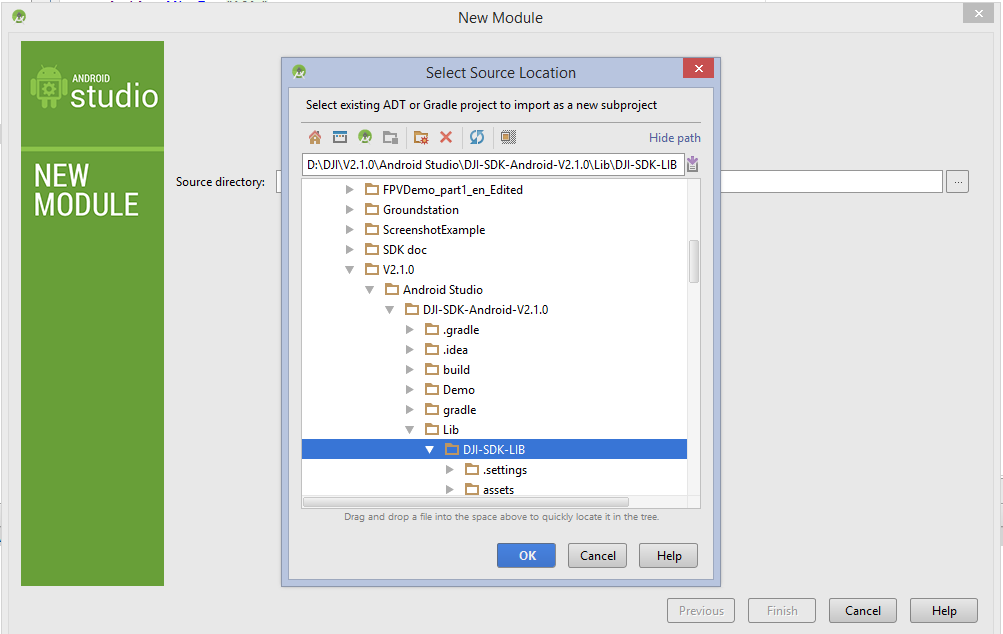
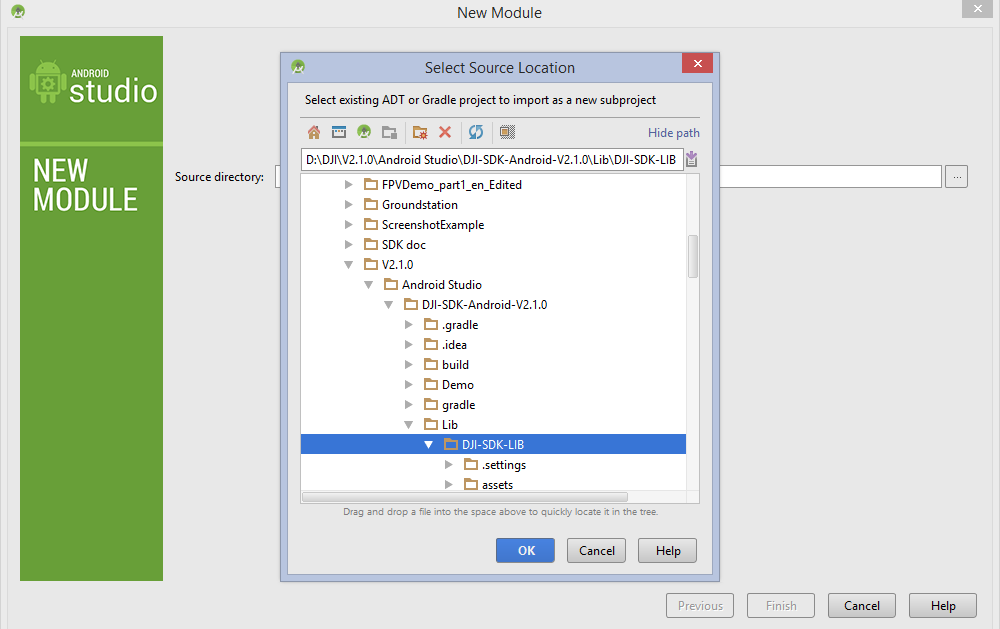
Proofread and cleaned up tutorial. Fixed image importModuleScreenshot (it was showing a bit more more than just the intended window)

diff --git a/Android-FPVDemo/en/FPVDemo/Part1/FPVDemo_Part1_en.md b/Android-FPVDemo/en/FPVDemo/Part1/FPVDemo_Part1_en.md
@@ -8,7 +8,7 @@ You can download the demo project for this tutorial from here:
 We **strongly** recommend that you have the demo project open as reference as you work through this tutorial.
 
 ### Overview
-In part 1 of this tutorial, we will cover how to set up your programming environment, apply for and activate your DJI app, and view your drone's camera feed through the app.
+In part 1 of this tutorial, we will cover how to set up your programming environment, apply for and activate your DJI app, and create a live First Person View of your drone's camera visible through your app.
 
 ### 1. Preparation
 
@@ -16,11 +16,10 @@ In part 1 of this tutorial, we will cover how to set up your programming environ
 (1) Download the Mobile SDK for Android from the following URL: 
 <http://dev.dji.com/cn/products/sdk/mobile-sdk/downloads>
 
-(2) Update the firmware of the aircraft (Phantom 3 Professional, Phantom 3 Advanced or Inspire 1) through the URL: <http://dev.dji.com/cn/products/sdk/mobile-sdk/downloads>
+(2) Update the firmware of the aircraft (Phantom 3 Professional, Phantom 3 Advanced or Inspire 1) through the URL: <http://dev.dji.com/cn/products/sdk/mobile-sdk/downloads>(
+*Refer to "Updating the Aircraft Firmware": <http://download.dji-innovations.com/downloads/phantom_3/en/How_to_Update_Firmware_en.pdf> for instructions on updating the firmware.*)
 
-Refer to "Updating the Aircraft Firmware": <http://download.dji-innovations.com/downloads/phantom_3/en/How_to_Update_Firmware_en.pdf> to update the firmware.
-
-(3) Set up an Android development environment (if you do not yet have one). Throughout this tutorial we will be using Eclipse 4.2.2, which you can download here: <https://eclipse.org/downloads/packages/eclipse-classic-422/junosr2>. Once Eclipse is installed, you will then have to install the Eclipse Android Development Tool Plug-In, found here: http://developer.android.com/intl/zh-TW/sdk/installing/installing-adt.html
+(3) Set up an Android development environment (if you do not yet have one). Throughout this tutorial we will be using Eclipse 4.2.2, which you can download here: <https://eclipse.org/downloads/packages/eclipse-classic-422/junosr2>. Once Eclipse is installed, you will then have to install the Eclipse Android Development Tool Plug-In, with instructions on how to do so found here: http://developer.android.com/intl/zh-TW/sdk/installing/installing-adt.html
 
 *Note: Google's support for Android Development Tools in Eclipse is ending. If you would like to complete this demo using Eclipse as we have, or if you have already completed this demo in Eclipse, you can find instructions to migrate your project into Android Studio here: <https://developer.android.com/intl/zh-TW/sdk/installing/migrate.html>. If you would like to follow this tutorial using Android Studio, the mobile SDK folder contains an Android Studio library as well as an Eclipse one. Instructions on how to import the SDK library are given for both Eclipse and Android Studio below. However, we recommend that you follow this guide using the provided installation of Eclipse, and migrate your project afterwards, as we cannot ensure that results in Android Studio will be identical to those displayed in this tutorial.*
 
@@ -28,7 +27,7 @@ Refer to "Updating the Aircraft Firmware": <http://download.dji-innovations.com/
 
 ###Eclipse
 
-(1) Create a new 'Android Application Project'. Name the Application, Project and Package as you please. Under the 'Create Activity' page of the project set-up, create a blank activity, and name it 'FPVActivity'. The layout activity should automatically fill out to 'activity_fpv'.
+(1) Create a new 'Android Application Project'. Name the Application, Project and Package as you please. Under the 'Create Activity' page of the project set-up, create a blank activity, and name it 'FPVActivity'. The layout activity should automatically fill out with 'activity_fpv'.
 
 (2) Unzip the SDK package downloaded from the DJI website. Import the folder **Lib** (Eclipse\DJI-SDK-Android-V2.1.0) into Eclipse (File -> Import -> Android -> Existing Android Code into Workspace). Next, add the imported file to your library (right click on your project -> Select "**Properties**" -> Select "**Android**" -> Add).
 ![setLib](https://github.com/dji-sdk/Mobile-SDK-Tutorial/raw/master/Android-FPVDemo/en/images/1_importLib.png)
@@ -41,7 +40,7 @@ Refer to "Updating the Aircraft Firmware": <http://download.dji-innovations.com/
 
 (2) Unzip the SDK package downloaded from the DJI website. Go to File -> New -> Import Module. In the 'Source Directory' field, find the DJI-SDK-LIB folder location (Android Studio\DJI-SDK-Android-V2.1.0\Lib\DJI-SDK-LIB). Press Finish.
 
-*Note: The folder 'Android Studio' is found in the SDK package downloaded from the DJI website. The library used in the demo project code is from the 'Eclipse' folder in the same SDK package, so if you are working in Android Studio make sure that you are using the correct library from the 'Android Studio' folder. For your convenience the SDK package download link is reproduced here <http://dev.dji.com/cn/products/sdk/mobile-sdk/downloads>*
+*Note: The folder 'Android Studio' is found in the SDK package downloaded from the DJI website. The library used in the demo project code is from the 'Eclipse' folder in the same SDK package, so if you are working in Android Studio make sure that you are using the correct library, found in the 'Android Studio' folder. For your convenience the SDK package download link is reproduced here <http://dev.dji.com/cn/products/sdk/mobile-sdk/downloads>*
 ![importModule](https://raw.githubusercontent.com/alexanderwangus/Mobile-SDK-Tutorial/master/Android-FPVDemo/en/images/importModuleScreenshot.png)
 Next, right click on the 'app' module in the file directory to the left, and click 'Open Module Settings". Navigate to the 'Dependencies' tab. Press the green plus sign, click 'Module Dependency', and select ':DJI-SDK-LIB'. Press 'OK' to confirm. After Gradle finishes rebuilding, you're environment will be ready!
 
@@ -52,11 +51,11 @@ Next, right click on the 'app' module in the file directory to the left, and cli
 
 (1) Register for an account at <http://dev.dji.com>. Once registered, click on your name in the upper right corner. Click on 'Mobile SDK', then 'Create APP' and fill out the creation form. Type in your project's package name in the 'Identification Code' field.
 
-(2) Copy both the 'uses-permission' lines of code and the highlighted meta-data element into your **AndroidManifest.xml** file for activation, as shown below.  
+(2) Copy both the **<uses-permission ... >** lines of code and the highlighted meta-data element into your **AndroidManifest.xml** file for activation, as shown below.  
 
 ![appKeyMetaData](https://github.com/dji-sdk/Mobile-SDK-Tutorial/raw/master/Android-FPVDemo/en/images/1_appKeyMetaData2.png)
 
-Fill in the 'android:value' field with the APP KEY that you have applied for from <http://dev.dji.com>.
+Fill in the **android:value** field with the APP KEY that you have applied for from <http://dev.dji.com>.
 
 ![appKey](https://github.com/dji-sdk/Mobile-SDK-Tutorial/raw/master/Android-FPVDemo/en/images/1_appKey.png)
 
@@ -66,7 +65,7 @@ private static final String TAG = "MyApp";
 ~~~
 We'll be using this string to identify log errors that are relevant to our activation.
 
-In your onCreate method, add the following code. It looks like a lot, but it actually the bulk of it is just a **DJIDrone.checkPermission()** method. This method will verify your app by checking the information we just added to our **AndroidManifest.xml** file against DJI's servers. If this if your first time running your app, and the verification comes through, the app will be activated.
+In your onCreate method, add the following code. It looks like a lot, but the bulk of it is a single method called **DJIDrone.checkPermission()**. This method will verify your app by checking the information we just added to our **AndroidManifest.xml** file against DJI's servers. If this if your first time running your app, and the verification comes through, the app will also be activated.
 ~~~java
 	new Thread(){
 		public void run(){
@@ -94,9 +93,9 @@ In your onCreate method, add the following code. It looks like a lot, but it act
 		}
 	}.start();
 ~~~
-Let's break this chunk of code down. You'll notice that we place all our code inside of a **Thread()**. The reason for this is because **checkPermission()** performs network operations, and such processes must be handled in a thread, lest the whole app freezes up while waiting for the network operation to complete.
+Let's break this chunk of code down. You'll notice that we place all our code inside of a thread. The reason for this is because **checkPermission()** performs network operations, and such processes must be handled in a thread, lest the whole app freezes up while waiting for the network operation to complete.
 
-**checkPermission()** takes in two parameters: a context, and a **DJIGerneralListener()** object. The context is pretty standard. **DJIGerneralListener()** is an interface containing one method: **onGetPermissionResult()**, which acts as a callback function that handles what to do when **checkPermission()** receives a response. 
+**checkPermission()** takes in two parameters: a context, and a **DJIGerneralListener()** object. **DJIGerneralListener()** is an interface containing one method: **onGetPermissionResult()**, which acts as a callback function that handles what to do when **checkPermission()** receives a response. 
 ~~~java
 @Override
 public void onGetPermissionResult(int result){
@@ -113,7 +112,7 @@ public void onGetPermissionResult(int result){
 	}
 }
 ~~~
-**onGetPermissionResult()** takes in and integer **result**. **result** is an error code returned to your app. If the error code is '0' the app has been successfully verified. If not, **onGetPermissionResult()** prints out the appropriate error message.
+**onGetPermissionResult()** takes in an integer **result**. **result** is an error code returned to your app. If the error code is 0 the app has been successfully verified. If not, **onGetPermissionResult()** prints out the appropriate error message using the Log. When developing your own apps, you can decide whether this is how you'd like to handle the error code.
 
 (3) Run your project code on an Android device or Android emulator to complete the activation procedure. Instructions for running your code can be found here: <http://developer.android.com/intl/zh-TW/tools/building/building-eclipse.html>
 
@@ -147,7 +146,7 @@ Error Code  	  | Description
 -18 | Empty app key
 -1000 | Server error 
 
-If you have received an error code that is not '0', follow the instructions below:
+If you have received an error code that is not 0, follow the instructions below:
 
 1. Ensure that you have access to the internet
 2. Ensure that, when creating an app on the http://dev.dji.com website, you have filled out the 'Identification Code' field with your project package name 
@@ -158,16 +157,21 @@ If you have further questions, contact our mobile SDK support by sending emails 
 
 ### 4. Adding Android Open Accessory (AOA) support
 
-The latest firmware on DJI's newest remote controllers connect to external devices using USB Accessory, rather than USB Debugging as before. This requires Android Open Accessory (AOA) support. In the future, when you go on to create your own apps to use with DJI drones, you will need to add AOA support as shown below. This set up is also backwards compatible with older remotes.
+The latest firmware on DJI's newest remote controllers connect to external devices using USB Accessory, rather than USB Debugging older models do. This requires Android Open Accessory (AOA) support. In the future, when you go on to create your own apps to use with DJI drones, you will need to add AOA support as shown below. This set up is also backwards compatible with older remotes.
 
-(1) Modify **AndroidManifest.xml** to set **.DJIAoaActivity** as the main activity, so that it will act as the entry point when your app starts up. To do this, find the **<activity** element, and change the **android:name** value from **.FPVActivity** to **.DJIAoaActivity**.
+(1) Modify **AndroidManifest.xml** to set **.DJIAoaActivity** as the main activity, so that it will act as the entry point when your app starts up. To do this, find the **<activity ... >** element, and change the **android:name** value from **.FPVActivity** to **.DJIAoaActivity**.
 
-Under the 'manifest' element in your **AndroidManifest.xml** file, add the following lines of code: 
-- **uses-feature android:name="android.hardware.usb.accessory" android:required="false"**
-- **uses-feature android:name="android.hardware.usb.host" android:required="false"**
+Under the 'manifest' element in your **AndroidManifest.xml** file, add the following lines of code:
+~~~xml
+<uses-feature android:name="android.hardware.usb.accessory" android:required="false" />
+<uses-feature android:name="android.hardware.usb.host" android:required="false" />
+~~~ 
 
 Under the 'application' element, add the following line of code:
-- **uses-library android:name="com.android.future.usb.accessory"**
+~~~xml
+uses-library android:name="com.android.future.usb.accessory"
+~~~
+Your **AndroidManifest.xml** file should look something like this:
 ~~~xml
 	...
 	
@@ -199,7 +203,7 @@ Under the 'application' element, add the following line of code:
 		</activity>
 ~~~
 
-(2) Create a new Android Activity Page, using 'DJIAoaActivity' as the activity name. (Right click on your package -> New -> Other -> Android -> Android Activity). In your newly created 'DJIAoaActivity.java' file, locate the 'onCreate' method, and replace the code inside with the following code in to enable AOA support.
+(2) Create a new Android Activity Page, using **DJIAoaActivity** as the activity name. (Right click on your package -> New -> Other -> Android -> Android Activity). In your newly created **DJIAoaActivity.java** file, locate the '**onCreate()** method, and replace the code inside with the following code to enable AOA support.
 ~~~java
 	private static boolean isStarted = false;
 	...
@@ -231,7 +235,10 @@ Under the 'application' element, add the following line of code:
 	}
 	...
 ~~~ 
-We created the variable **isStarted** so that set up only occurs when the app starts up.
+
+Let's run through this code bit by bit.
+
+We created the variable **isStarted** so that the set up only occurs when the app starts up.
 ~~~java
 	private static boolean isStarted = false;
 ~~~
@@ -251,7 +258,7 @@ If the app is being started up, we set up an intent that will take us to our mai
 Intent intent = new Intent(DJIAoaActivity.this, FPVActivity.class);
 startActivity(intent);
 ~~~
-**In the future when you are adding AOA support for your own apps to use with the DJI remote, you will want to replace "FPVActivity.class" with the name of your own class. Additionally, if you haven't named your first activity 'FPVActivity', you'll need to put the name you chose here instead.**
+*Note: In the future when you are adding AOA support for your own apps to use with the DJI remote, you will want to replace "FPVActivity.class" with the name of your own class. Additionally, if you haven't named your first activity 'FPVActivity', you'll need to put the name you chose here instead.*
 
 Next we have the code responsible for sending a broadcast to connect to the remote.
 ~~~java
@@ -265,7 +272,7 @@ if(aoaIntent != null) {
 	}
 }
 ~~~
-We get the action of the intent that brought us here. This allows us to check if the app is being opened, or if the device the app is on has just been plugged into a DJI remote. If so, we send a broadcast to set up the connection between the app and the DJI remote.
+This code first gets the action of the intent that brought us here. This allows us to check if the app is being opened, or if the device the app is on has just been plugged into a DJI remote. If so, we send a broadcast to set up the connection between the app and the DJI remote.
 ~~~java
 if (action==UsbManager.ACTION_USB_ACCESSORY_ATTACHED || action == Intent.ACTION_MAIN){
 	// Send broadcast
@@ -273,11 +280,11 @@ if (action==UsbManager.ACTION_USB_ACCESSORY_ATTACHED || action == Intent.ACTION_
 ~~~ 
 
 
-(3) Additionally, we will need to pause the AOA data connection service when the app paused, meaning that it is partially visible, and resume the data connection when the app is resumed, meaning it is once again fully visible. 
+(3) Additionally, we will need to pause the AOA data connection service when the app paused (when it is partially visible), and resume the data connection when the app is resumed (when it is once again fully visible). 
 
-Create a new Android Activity Page called '**DemoBaseActivity**', and add the following code. This code allows you to pause or resume the AOA data connection service when the **onPause()** or **onResume()** lifecycle callbacks are called.
+Create a new Android Activity Page called **DemoBaseActivity**, and add the following code. This code allows you to pause or resume the AOA data connection service when the **onPause()** or **onResume()** lifecycle callbacks are called.
 
-This will be our project's base activity. Change your 'FPVActivity' class header so that it now extends 'DemoBaseActivity', rather than 'Activity'.
+This will be our project's base activity. Change your **FPVActivity** class header so that it now extends **DemoBaseActivity**, rather than **Activity**.
 ~~~java
 	...
 	@Override
@@ -295,9 +302,9 @@ This will be our project's base activity. Change your 'FPVActivity' class header
 	
 ### 5. Implementing the First Person View (FPV)
 
-We're almost there! We've activated our app and set up a verification mechanism, as well as established a data connection between our app and the DJI remote controller. All that's left to do is create a live video feed of the Drone's camera, to be viewed through the app.
+We're almost there! We've activated our app and set up a verification mechanism, as well as established a data connection between our app and the DJI remote controller. All that's left to do is create a live video feed of the Drone's camera to be viewed through the app.
 
-(1) Before we start using the SDK API, we have to initiate it according to the type of the aircraft we are using. Unfortunately, as of now, there exists no way to automatically detect what type of aircraft the app is connected to. This means that we must either hardcode in which type of drone we are using, or have some sort of user input. For the purposes of this tutorial, we will be hardcoding that we are using the Inspire 1. However, our method includes a **switch()** statement that allows us to change a simple variable **DroneCode** in our code if other drones are to be used.
+(1) Before we start using the SDK API, we have to initiate it according to the type of the aircraft we are using. Unfortunately, as of now, there exists no way to automatically detect what type of aircraft the app is connected to. This means that we must either hardcode in which type of drone we are using, or have some sort of user input. For the purposes of this tutorial, we will be hardcoding in that we are using the Inspire 1. However, our method includes a **switch()** statement that allows us to change a simple variable **DroneCode** in our code if other drones are to be used.
 
 In 'FPVActivity.java', in the FPVActivity class, add the variable below.
 ~~~java
@@ -348,18 +355,18 @@ Add two lines of code in the 'onCreate' method as shown below. Additionally, wit
 	
 	...
 ~~~
-(2) After initiating the SDK API, we have to then connect to the drone. In the 'onCreate' method, use the following line of code to connect to the aircraft. Make sure to call this method only after the code that activates your APP key.
+(2) After initiating the SDK API, we have to connect to the drone. In the 'onCreate' method, use the following line of code to connect to the aircraft. Make sure to call this method only after the code that activates your APP key.
 ~~~java
 	DJIDrone.connectToDrone(); // Connect to the drone
 ~~~	
-(3) Now that the API has been initiated and we have connected to the drone, we can connect a video feed (if these two processes are not carried out first, calling API functions will have no result). Locate the **activity_fpv.xml** file (res/layout/activity_fpv.xml) and add the following **surfaceview** element code in the **activity_fpv.xml** file.
+(3) Now that the API has been initiated and we have connected to the drone, we can connect a video feed. If these two processes are not carried out first, calling API functions will have no result. Locate the **activity_fpv.xml** file (res/layout/activity_fpv.xml) and add the following **DjiGLSurfaceView** element code in the **activity_fpv.xml** file.
 ~~~xml
 	<dji.sdk.widget.DjiGLSurfaceView
 		android:id="@+id/DjiSurfaceView_02"
 		android:layout_width="fill_parent"
 		android:layout_height="fill_parent" />
 ~~~	
-This adds a DjiGLSurfaceView element to our app. This view is responsible for displaying the video stream from the DJI drone.
+This view is responsible for displaying the video stream from the DJI drone.
 
 In your 'FPVActivity.java' file, in the FPVActivity class, add the objects as shown below.
 ~~~java
@@ -387,14 +394,14 @@ Add the following code in the 'onCreate' method, making sure to insert it after 
 		DJIDrone.getDjiCamera().setReceivedVideoDataCallBack(mReceivedVideoDataCallBack);
 	}
 ~~~	
-Let's run through this chunk of code.
+Let's work our way through this chunk of code.
 
 Firstly, we associate our object **mDjiGLSurfaceView** with the **DjiSurfaceView_02** element we created in our **activity_fpv.xml** file just before.
 ~~~java
 mDjiGLSurfaceView = (DjiGLSurfaceView)findViewById(R.id.DjiSurfaceView_02);
 mDjiGLSurfaceView.start();
 ~~~
-We then set the value of our callback function **mReceivedVideoDataCallBack** that we just declared above.
+We then set our callback function **mReceivedVideoDataCallBack** that we just declared above.
 ~~~java
 mReceivedVideoDataCallBack = new DJIReceivedVideoDataCallBack(){
 @Override
@@ -403,14 +410,14 @@ public void onResult(byte[] videoBuffer, int size){
 	}
 };
 ~~~
-**mReceivedVideoDataCallBack** takes the raw video data (raw H264 format) from the Drone's camera and feeds it to our **DjiGLSurfaceView** element to handle, where a decoder provided by DJI will decode the raw data, upon which the **DjiGLSurfaceView** element will display it in our app window!
+**mReceivedVideoDataCallBack** will now take the raw video data (raw H264 format) from the Drone's camera and feed it to our **DjiGLSurfaceView** element to handle, where a decoder provided by DJI will decode the raw data, upon which the **DjiGLSurfaceView** element will display it in our app window!
 
 Finally, we set this callback function to be called when we receive data from the Drone's camera.
 ~~~java
 DJIDrone.getDjiCamera().setReceivedVideoDataCallBack(mReceivedVideoDataCallBack);
 ~~~
 
-(4) Finally, when the app is closed, we must terminate the data decoding process, then destory our **DjiGLSurfaceView** element. If an **onDestroy()** method does not already exist, create the method using the code below. Otherwise, simple copy the code from the **onDestroy()** method below into your existing **onDestroy()** method.
+(4) Finally, when the app is closed, we must terminate the data decoding process, then destroy our **DjiGLSurfaceView** element. If an **onDestroy()** method does not already exist, create the method using the code below. Otherwise, copy the code below into your existing **onDestroy()** method.
 ~~~java
 	...
 	
@@ -424,13 +431,13 @@ DJIDrone.getDjiCamera().setReceivedVideoDataCallBack(mReceivedVideoDataCallBack)
 		...
 	}
 ~~~
-It is extremely important that in the **onDestroy()** method, you first terminate the video data processing operation by setting the callback function to **null** before you destroy the **DjiGLSurfaceView** object, as shown above. If you destroy the surface view first, the callback function will continue to send data to an object that does not exist, which could cause your app to crash.
+It is extremely important that in the **onDestroy()** method, you first terminate the video data processing operation by setting the callback function to **null** before you destroy the **DjiGLSurfaceView** object, as shown above. If you destroy the surface view first, the callback function will continue to send data to an object that does not exist, which could crash your app.
 
-Conversely, in your **onCreate()** method, you must start the **DjiGLSurfaceView** object before assigning the callback function, for the same reason (refer to the beginning of step (3) where we modify the **onCreate()** method for clarification).
+Conversely, in your **onCreate()** method, you must start the **DjiGLSurfaceView** object before assigning the callback function, for the same reason (refer to the beginning of step (3) where we modify the **onCreate()** method for an example of where we have already done this).
 
 ### 6. Connecting to your DJI Drones
 
-After you have built and run the project successfully, you can now connect your mobile device to an aircraft to check the FPV View. Follow the appropriate instructions for your specific aircraft model:
+After you have built and run the project successfully, you can now connect your mobile device to an aircraft to check the FPV. Follow the appropriate instructions for your specific aircraft model:
 
 #### Connecting to a DJI Inspire 1 or Phantom 3 Professional/Advanced:
 
@@ -438,7 +445,7 @@ After you have built and run the project successfully, you can now connect your 
 
 2. Connect your mobile device to the remote controller using a USB cable. Tap your own app and a message window "Choose an app for the USB device" will prompt.
 
-3. Tap "OK" when the messagte window prompts "Allow the app to access the USB accessory".
+3. Tap "OK" when the message window prompts "Allow the app to access the USB accessory".
 
 4. Tap "OK" when the activation alert displays.
 
@@ -456,8 +463,8 @@ After you have built and run the project successfully, you can now connect your 
 
 5. You are ready to use the FPV View app.
 
-### 7. Checking the result of FPV View
-If you can see the live video stream in the app, congratulations! You can now move on to the Part 2 of the tutorial:
+### 7. Checking your results
+If you can see the live video stream in the app, congratulations! You've succesfully implemented a First Person View!
 ![runAppScreenShot](https://github.com/dji-sdk/Mobile-SDK-Tutorial/raw/master/Android-FPVDemo/en/images/runAppScreenShot.png)
 
 ### 8. Where to Go From Here?
